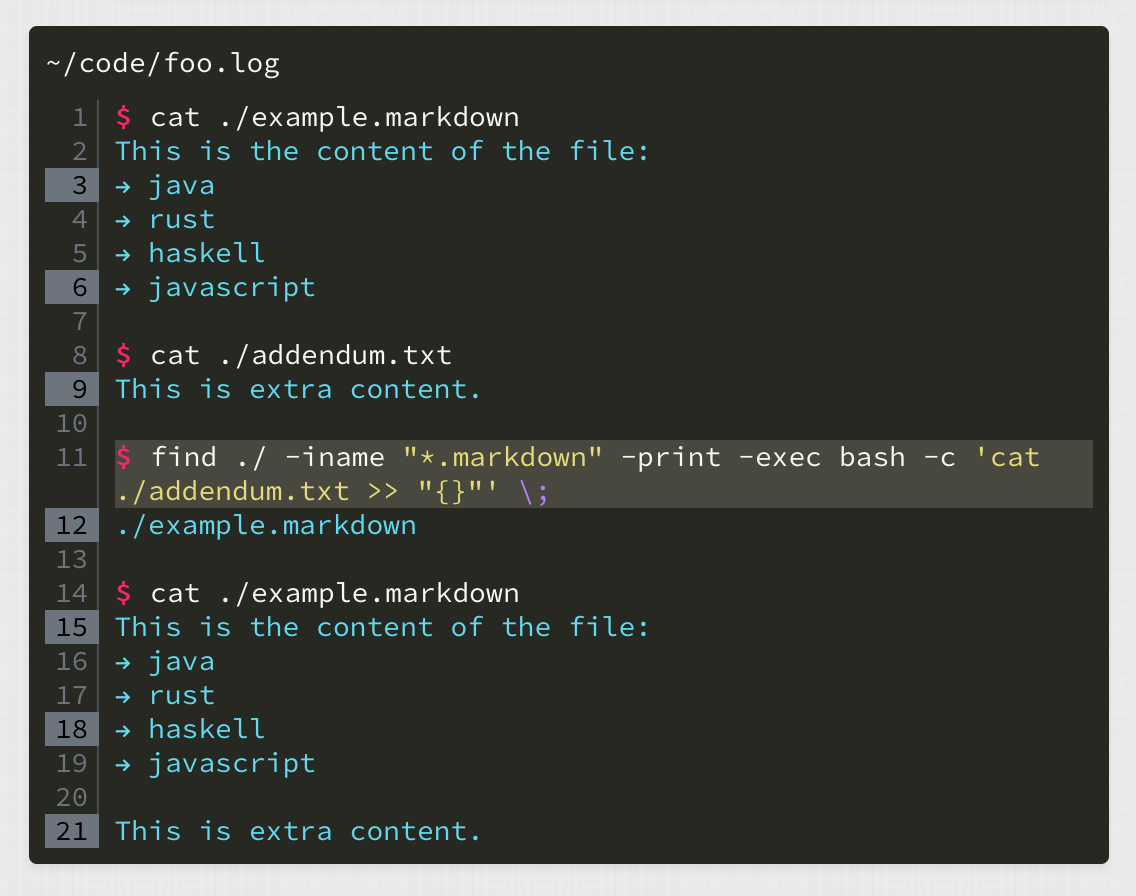
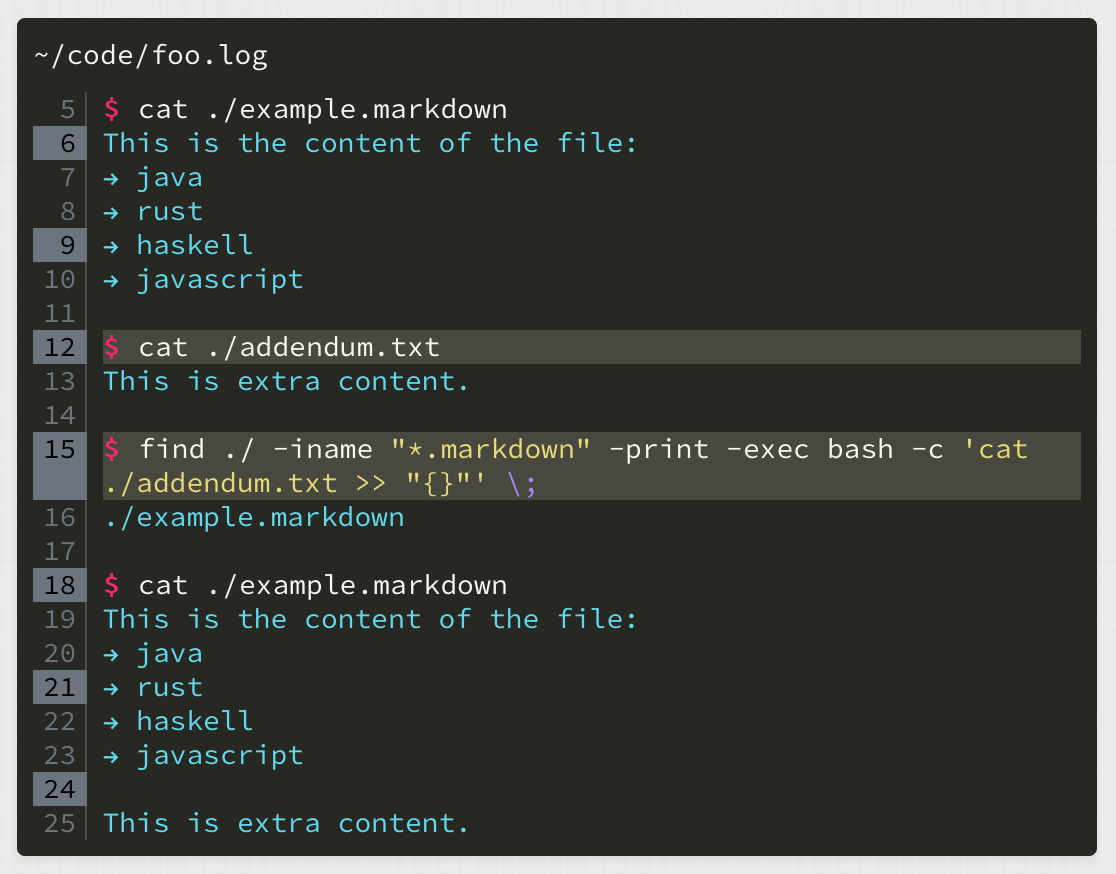
Update feature matrix.

Changed region(s): [[0.0, 0.0, 1.0, 0.9886]]

diff --git a/readme.md b/readme.md
@@ -166,8 +166,9 @@ Feature | [CodeHilite](https://python-markdown.github.io/extensions/code_hilite/
 Clean copy and paste | ✅ | ✅
 Line numbering | ✅ | ✅
 Right justified numbers | ✅ | ✅
-Single line highlight | ✅ | ❌
-Nth line highlight | ✅ | ❌
+Line start offset | ✅ | ✅
+Multiple line highlight | ✅ | ✅
+Nth line highlight | ✅ | ✅
 Filename | ✅ | ❌
 Long line wraps | ✅ | ❌
 Long line overflow (scrollbar) | ❌ | ✅
@@ -188,7 +189,7 @@ extra options to [Pygments' HTML formatter](https://pygments.org/docs/formatters
               "linenums": True,
               "linenos": "inline",
               "linespans": "coderow",
-              "lineanchors": "l",
+              "lineanchors": "L",
               "anchorlinenos": True,
               "wrapcode": True,
           },
@@ -201,7 +202,7 @@ extra options to [Pygments' HTML formatter](https://pygments.org/docs/formatters
 This will render this:
 
   ````markdown
-  ```{.shell-session hl_lines="11" linenospecial="3" filename="~/code/foo.log"}
+  ```{.shell-session hl_lines="8 11" linenostart="5" linenospecial="3" filename="~/code/foo.log"}
   $ cat ./example.markdown
   This is the content of the file:
   → java
@@ -251,7 +252,7 @@ Just add this configuration to your `pelicanconf.py`:
 This will render this:
 
   ````markdown
-  ```{.shell-session hl_lines="11" linenospecial="3" filename="~/code/foo.log"}
+  ```{.shell-session hl_lines="8 11" linenums="5 1 3" filename="~/code/foo.log"}
   $ cat ./example.markdown
   This is the content of the file:
   → java
